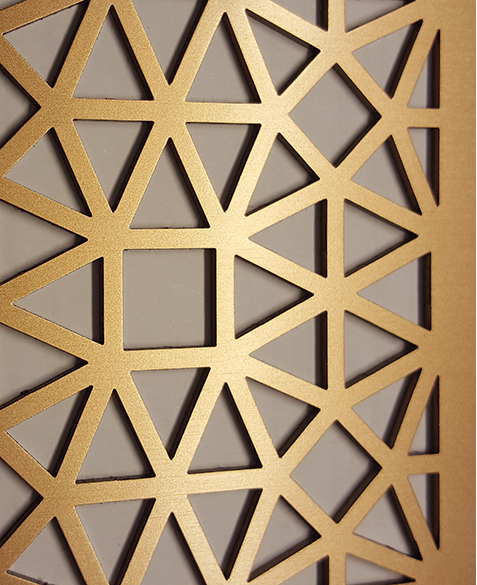
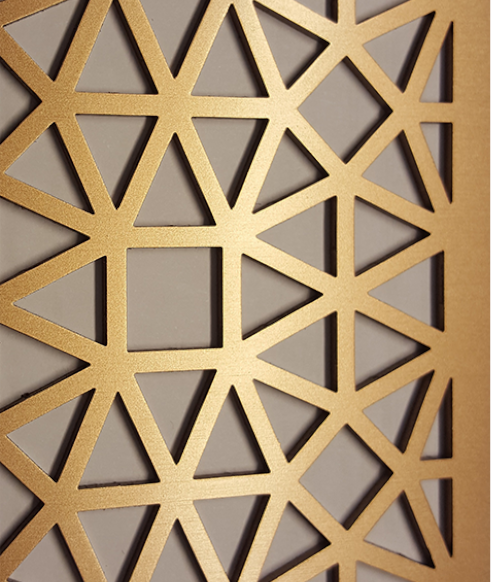
img ridimensionate

diff --git a/index.html b/index.html
@@ -15,7 +15,7 @@
                 <div class="container-fluid p-2">
                   <a class="navbar-brand font-monospace fs-6" href="#"><img src="img/logo.png" alt="logo YDF">CUSTOM METAL FABRICATION</a>
                     <div class="navbar-nav row flex-row me-5">
-                      <div class=" col-md-9 col-sm-12">
+                      <div class=" col-md-9 col-sm-12 col-lg-8 col-xl-8">
                         <a class="nav-link active" aria-current="page" href="#">
                           <svg xmlns="http://www.w3.org/2000/svg" width="16" height="16" fill="currentColor" class="bi bi-telephone-fill" viewBox="0 0 16 16">
                             <path fill-rule="evenodd" d="M1.885.511a1.745 1.745 0 0 1 2.61.163L6.29 2.98c.329.423.445.974.315 1.494l-.547 2.19a.678.678 0 0 0 .178.643l2.457 2.457a.678.678 0 0 0 .644.178l2.189-.547a1.745 1.745 0 0 1 1.494.315l2.306 1.794c.829.645.905 1.87.163 2.611l-1.034 1.034c-.74.74-1.846 1.065-2.877.702a18.634 18.634 0 0 1-7.01-4.42 18.634 18.634 0 0 1-4.42-7.009c-.362-1.03-.037-2.137.703-2.877L1.885.511z"/>
@@ -58,7 +58,7 @@
               </div>
         </div>
         <!-- PRIMA SEZIONE TESTO + SLIDER-->
-        <div class="container w-75 p-5">
+        <div class="container  p-5">
             <div class="row justify-content-center">
                 <div class="col-lg-7 col-md-12 col-sm-12 col-xl-7">
                     <p class="text-muted fs-6 mt-2">AZIENDA</p>
@@ -77,7 +77,7 @@
                             <img src="img/slide-1.png" class="d-block w-100 h-100" alt="...">
                           </div>
                           <div class="carousel-item">
-                            <img src="img/slide-2.png" class="d-block h-100" alt="...">
+                            <img src="img/slide-2.png" class="d-block h-100 w-100" alt="...">
                           </div>
                           <div class="carousel-item">
                             <img src="img/slide-3.png" class="d-block w-100 h-100" alt="...">
@@ -167,19 +167,19 @@
                         <div id="slideshow" class="carousel slide carousel-fade" data-ride="carousel">
                             <div class="carousel-inner h-100">
                               <div class="carousel-item active ">
-                                <img src="img/ottone-1.png" class="d-block " alt="...">
+                                <img src="img/ottone-1.png" class="d-block w-100 h-100" alt="...">
                                 <div class="carousel-caption carousel-caption-2 d-none d-md-block">
                                   <p class="pt-1">Ottone motivo a pettine</p>
                                 </div>
                               </div>
                               <div class="carousel-item">
-                                <img src="img/ottone-2.png" class="d-block h-100" alt="...">
+                                <img src="img/ottone-2.png" class="d-block h-100 w-100" alt="...">
                                 <div class="carousel-caption carousel-caption-2 d-none d-md-block ">
                                   <p class="pt-1">Ottone bugnato oro</p>
                                 </div>
                               </div>
                               <div class="carousel-item">
-                                <img src="img/ottone-3.png" class="d-block  w-100" alt="...">
+                                <img src="img/ottone-3.png" class="d-block  w-100 h-100" alt="...">
                                 <div class="carousel-caption carousel-caption-2 d-none d-md-block">
                                   <p class="pt-1">Ottone martellato</p>
                                 </div>
@@ -221,7 +221,7 @@
                 </div>
 
               <!-- sezione 5 -->
-              <div class="row row-gap-4 justify-content-center mt-5">
+              <div class="px-md-5 row row-gap-4 justify-content-center mt-5">
 
                 <div class="col-md-8 col-lg-6 col-xl-4 px-md-3 griglia-img">
                   <img src="img/griglia-4.png" class="d-block w-100 h-100" alt="...">
@@ -235,24 +235,26 @@
                 </div>
 
                 <div class="col-md-8 col-lg-6 col-xl-4 px-md-3 griglia-img">
-                  <img src="img/griglia-2.png" class="d-block h-100 img-fluid" alt="...">
+                  <img src="img/griglia-2.png" class="d-block h-100 w-100" alt="...">
                 </div>
 
                 <div class="col-md-8 col-lg-6 col-xl-4 px-md-3 carousel griglia-img">
-                  <img src="img/griglia-1.png" class="d-block h-100 img-fluid" alt="...">
+                  <img src="img/griglia-1.png" class="d-block h-100 w-100" alt="...">
                   <div class="carousel-caption carousel-caption-3 d-none d-md-block">
                     <p class="ps-3 pt-1">Lampadario a disegno finitura oro</p>
                   </div>
                 </div>
 
                 <div class="col-md-8 col-lg-6 col-xl-4 px-md-3 griglia-img">
-                  <img src="img/griglia-5.png" class="d-block h-100 img-fluid" alt="...">
+                  <img src="img/griglia-5.png" class="d-block h-100 w-100" alt="...">
                 </div>
 
-                <div class="col-md-9 px-md-5 col-lg-6 col-xl-4 px-md-3 griglia-img">
+                <div class="col-md-9 col-lg-6 col-xl-4 px-md-3 griglia-img">
                   <img src="img/griglia-6.png" class="d-block w-100 h-100" alt="...">
-                </div><br/>
-                <div class="col-sm-6 col-md-4 col-lg-3 col-xl-2 col-10 ms-4 ms-sm-3 ms-md-5">
+                </div>
+              </div>
+              <div class="justify-content-center d-flex m-2">
+                <div>
                   <button class="btn btn-outline-dark txt-btn btn-sm text-muted px-3 py-2"><p class="txt-btn">VEDI TUTTE LE FINITURE</p></button>
                 </div>
               </div>
@@ -288,13 +290,13 @@
                     <div id="slideshow-2" class="carousel slide carousel-fade" data-ride="carousel">
                         <div class="carousel-inner">
                           <div class="carousel-item active">
-                            <img src="img/monolite-1.png" class="d-block h-100" alt="...">
+                            <img src="img/monolite-1.png" class="d-block w-100" alt="...">
                           </div>
                           <div class="carousel-item">
                             <img src="img/monolite-2.png" class="d-block w-100" alt="...">
                           </div>
                           <div class="carousel-item">
-                            <img src="img/monolite-3.png" class="d-block  h-100" alt="...">
+                            <img src="img/monolite-3.png" class="d-block  w-100" alt="...">
                           </div>
                           <div class="carousel-item">
                             <img src="img/monolite-4.png" class="d-block w-100" alt="...">

diff --git a/style.css b/style.css
@@ -52,7 +52,7 @@ div {
     padding-top: 3px;
     margin:0;
     left: 0;
-    height: 20%;
+    height: 40px;
     width: 0%;
     font-weight: bold;
     visibility: hidden;
@@ -126,7 +126,7 @@ div {
     background-color: rgb(20, 20, 20);
     width: 100%;
     margin: 0;
-    height: 75vh;
+    height: 80vh;
     overflow: hidden;
 }
 .sf-banner-sost {
